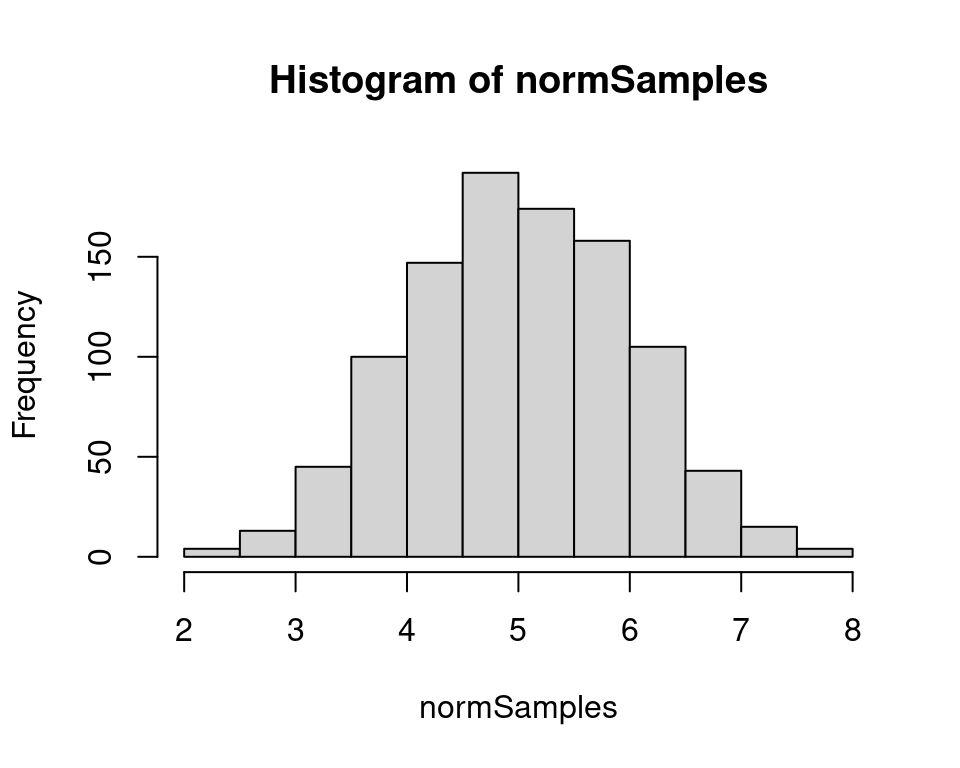
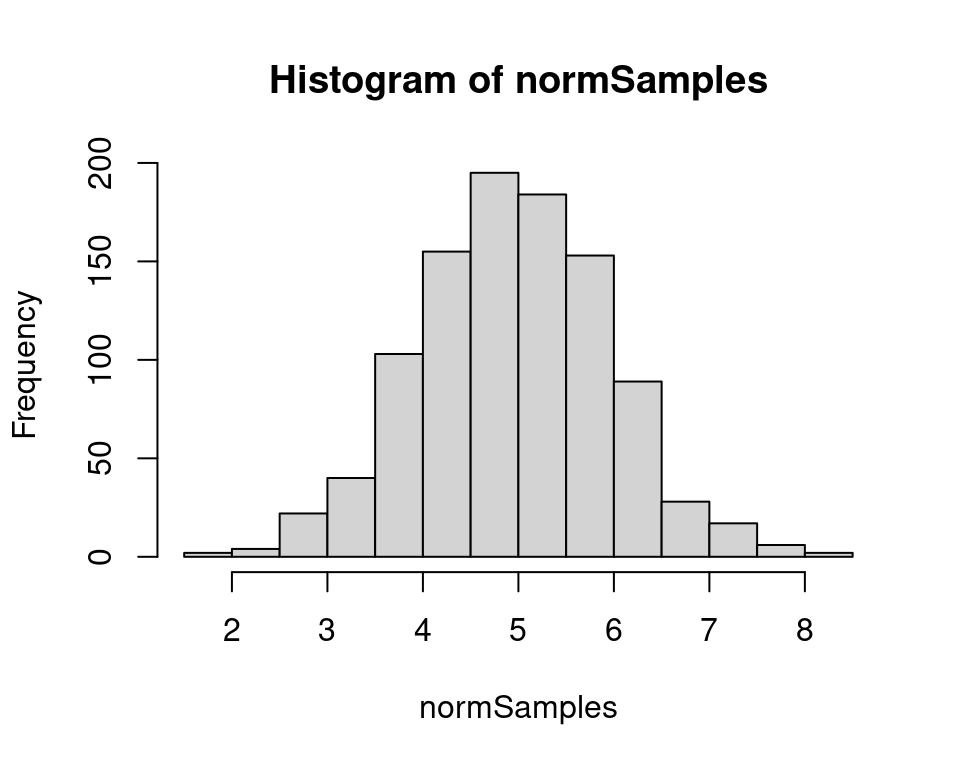
minor edits slides

diff --git a/power-sim-slides.html b/power-sim-slides.html
@@ -648,13 +648,13 @@ Matteo Lisi
 <span id="cb8-5"><a href="" aria-hidden="true" tabindex="-1"></a></span>
 <span id="cb8-6"><a href="" aria-hidden="true" tabindex="-1"></a><span class="fu">head</span>(data)</span></code><button title="Copy to Clipboard" class="code-copy-button"><i class="bi"></i></button></pre></div>
 <div class="cell-output cell-output-stdout">
-<pre><code>            [,1]      [,2]
-[1,] -0.01471087 -3.760801
-[2,] -0.02810545 -2.216300
-[3,]  0.28279278 -2.237060
-[4,] -0.90829742  1.238896
-[5,] -0.86291109 -3.528150
-[6,] -1.89523402  1.207421</code></pre>
+<pre><code>            [,1]       [,2]
+[1,]  0.35225978  1.4134922
+[2,] -2.89296144  2.2485596
+[3,] -0.05513042  2.4049586
+[4,] -2.62137544 -1.4006813
+[5,] -2.37764916  0.2167824
+[6,]  0.70270830  3.2861880</code></pre>
 </div>
 </div>
 </div><div class="column" style="width:50%;">
@@ -677,11 +677,19 @@ Matteo Lisi
 </section>
 <section id="worked-examples" class="slide level2">
 <h2>Worked examples</h2>
-<p>Link: (mlisi.xyz/power-sim-workshop/)[https://mlisi.xyz/power-sim-workshop/]</p>
+<p>Link: <a href="https://mlisi.xyz/power-sim-workshop/">mlisi.xyz/power-sim-workshop/</a></p>
 <ol type="1">
 <li class="fragment">GLMM</li>
 <li class="fragment">Experience sampling study</li>
 </ol>
+</section>
+<section id="further-examples" class="slide level2">
+<h2>Further examples</h2>
+<ul>
+<li class="fragment"><p>Simulations for a grant proposal, including of Bayesian multilevel SDT model <a href="https://osf.io/bxwdt/overview">OSF link</a>.</p></li>
+<li class="fragment"><p>Registered report: <a href="https://bpspsychub.onlinelibrary.wiley.com/doi/full/10.1111/bjhp.70020">paper</a>, <a href="https://osf.io/89cv5/files/yzdp3">power simulation script</a></p></li>
+<li class="fragment"><p>PSA-JTF3 collaboration: <a href="https://osf.io/preprints/psyarxiv/wegc5_v1">stage 1 paper</a>, <a href="https://osf.io/mquvn/files/dnsz8">power analyses</a></p></li>
+</ul>
 </section>
 <section id="simulation-without-a-parametric-model" class="slide level2">
 <h2>Simulation without a parametric model</h2>

diff --git a/power-sim-slides.revealjs.md b/power-sim-slides.revealjs.md
@@ -349,13 +349,13 @@ head(data)
 ::: {.cell-output .cell-output-stdout}
 
 ```
-            [,1]      [,2]
-[1,] -0.01471087 -3.760801
-[2,] -0.02810545 -2.216300
-[3,]  0.28279278 -2.237060
-[4,] -0.90829742  1.238896
-[5,] -0.86291109 -3.528150
-[6,] -1.89523402  1.207421
+            [,1]       [,2]
+[1,]  0.35225978  1.4134922
+[2,] -2.89296144  2.2485596
+[3,] -0.05513042  2.4049586
+[4,] -2.62137544 -1.4006813
+[5,] -2.37764916  0.2167824
+[6,]  0.70270830  3.2861880
 ```
 
 
@@ -395,10 +395,19 @@ ggplot(as.data.frame(data),
 
 ## Worked examples
 
-Link: (mlisi.xyz/power-sim-workshop/)[https://mlisi.xyz/power-sim-workshop/]
+Link: [mlisi.xyz/power-sim-workshop/](https://mlisi.xyz/power-sim-workshop/)
 
 1. GLMM
 2. Experience sampling study
+
+
+## Further examples
+
+- Simulations for a grant proposal, including of Bayesian multilevel SDT model [OSF link](https://osf.io/bxwdt/overview).
+
+- Registered report: [paper](https://bpspsychub.onlinelibrary.wiley.com/doi/full/10.1111/bjhp.70020), [power simulation script](https://osf.io/89cv5/files/yzdp3)
+
+- PSA-JTF3 collaboration: [stage 1 paper](https://osf.io/preprints/psyarxiv/wegc5_v1), [power analyses](https://osf.io/mquvn/files/dnsz8)
 
 
 ## Simulation without a parametric model
